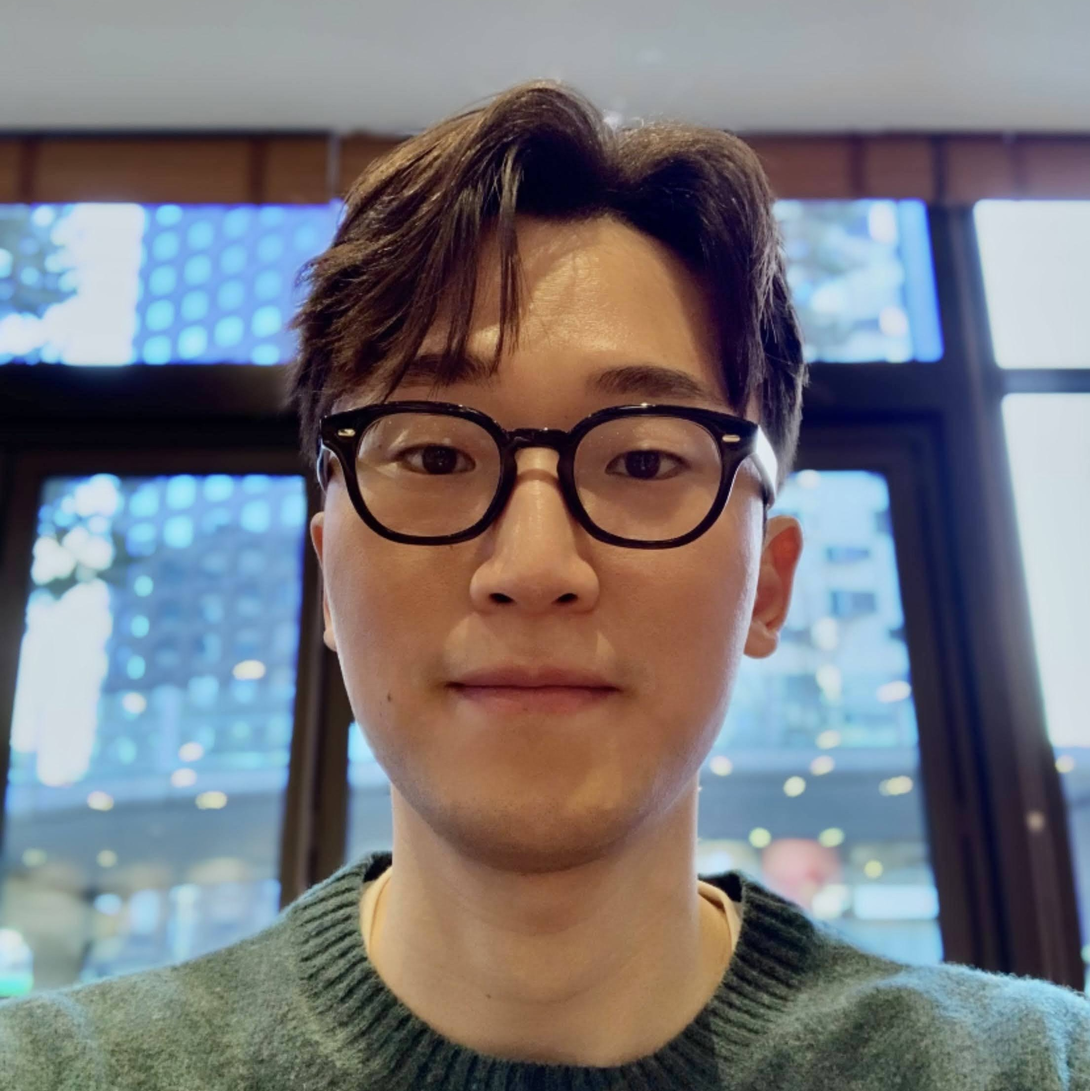
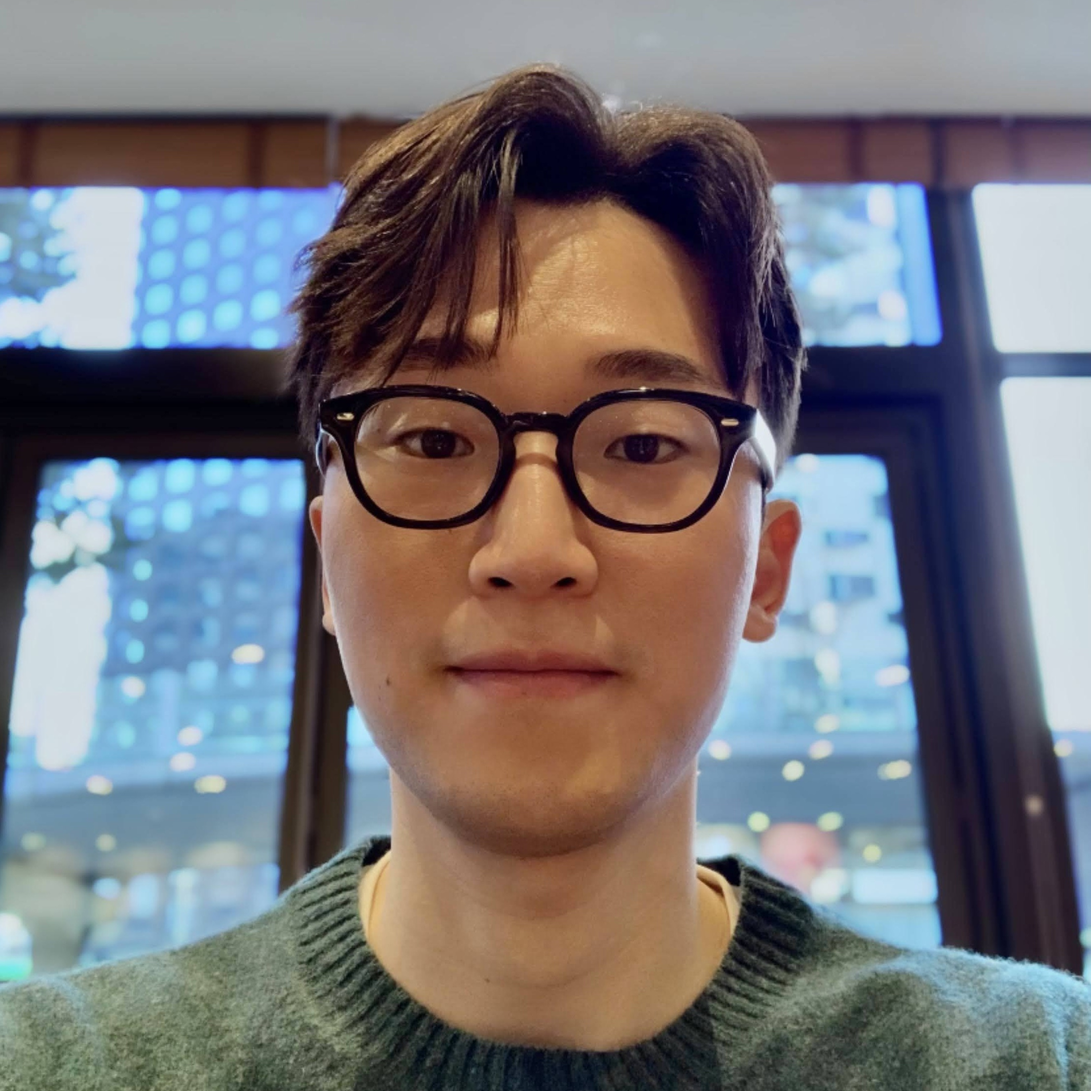
Update profile pic

diff --git a/people.md b/people.md
@@ -7,7 +7,7 @@ filename: organizers
 
 <style>
     img {
-    vertical-align: middle;
+        vertical-align: middle;
     }
 </style>
 
@@ -20,9 +20,8 @@ filename: organizers
 </p>
 <p> <b>Contact</b>: shuoqi.chen@intusurg.com</p>
 
-
 <p>
-    <img class="logo" src="assets/img/Jihun_profile.jpg" alt="Jihun_Yoon.js logo" width="200" height="200" />
+    <img class="logo" src="assets/img/Jihun_profile.JPG" alt="Jihun_Yoon.js logo" width="200" height="200" />
     <h2>Jihun Yoon</h2>
 </p>
 <p>
@@ -38,7 +37,6 @@ filename: organizers
     Rogerio Nespolo is a biomedical engineering PhD candidate and researcher at the University of Illinois Chicago. His work is focused on real-time surgical guidance and surgeons’ skills assessment for eye surgery and robot-assisted procedures employing multiple data modalities - image, kinematics, and visual attention - via computer vision and deep learning. His interests also include the investigation of biased datasets in the surgical field and its impact on minority populations.
 </p>
 <p> <b>Contact</b>: rgarci67@uic.edu</p>
-
 
 <p>
     <img class="logo" src="https://github.githubassets.com/images/icons/emoji/octocat.png" alt="Rohit_Jena.js logo" width="200" height="200" />
